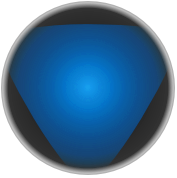
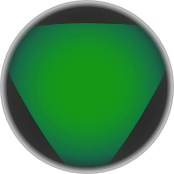
finish design

diff --git a/src/components/magic-ball/MagicBall.jsx b/src/components/magic-ball/MagicBall.jsx
@@ -1,77 +1,65 @@
 import React, { useState } from 'react';
-import ballImage from './images/ball.png';
-import ballHoleImage from './images/ball-hole.png';
 import './MagicBall.css';
 import answers from './answers.js';
 import LangButtons from './LangButtons.jsx';
+import MagicBallGlow from './MagicBall-glow.jsx';
+import MagicBallAnswer from './MagicBall-answer.jsx';
+import MagicBallBody from './MagicBall-body.jsx';
 
 
 
 const MagicBall = () => {
 
-    const [answer, setAnswer] = useState('');
     const [lang, setLang] = useState('ua');
+    const [answer, setAnswer] = useState(answers[0][lang]);
     const [shaking, setShaking] = useState(false);
 
     const handleShake = () => {
-        const randomIndex = Math.floor(Math.random() * answers.length);
+
+        let randomIndex = 0;
+
+        while(randomIndex === 0) {
+            randomIndex = Math.floor(Math.random() * answers.length);
+        }
+
         setShaking(true);
-        setTimeout(() => setShaking(false), 1000); 
+        setTimeout(() => setShaking(false), 1000);
         setAnswer(answers[randomIndex][lang]);
 
     };
 
+    const onLangChange = (e) => {
+        answers.find(answer => {
+            if (lang === 'en' && answer.en === e) {
+                    setAnswer(answer.ua);
+            }
+            else if (lang === 'ua' && answer.ua === e) {
+                setAnswer(answer.en);
+            }
+        })
+    };
+
+    const changeLang = (e) => {
+        setLang(e);
+        onLangChange(answer);
+    };
+
     return (
         <>
-            <LangButtons lang={lang} setLang={setLang} />
+            <LangButtons lang={lang} changeLang={changeLang} />
             <div
-                className={shaking ? 'shake' : ''}
+                className={`${shaking ? 'shake' : ''} `}
                 onClick={handleShake}
-                onMouseEnter={() => document.body.style.cursor = 'pointer'}
-                onMouseLeave={() => document.body.style.cursor = 'default'}
                 style={{
                     position: 'relative',
-                    cursor: 'pointer',
-                    marginTop: '300px'
+                    cursor: 'pointer',  
+                    marginTop: '400px'
                 }}
             >
-                <img
-                    src={ballImage} alt="Magic Ball"
-                    style={{
-                        position: 'absolute',
-                        top: '50%',
-                        left: '50%',
-                        transform: 'translate(-50%, -50%)'
-                    }}
-                />
-                <img
-                    src={ballHoleImage} alt="Magic Ball"
-                    style={{
-                        position: 'absolute',
-                        top: '50%',
-                        left: '50%',
-                        transform: 'translate(-50%, -50%)'
-                    }}
-                />
-                {<p 
-                style={{
-                    visibility: shaking ? 'hidden' : 'visible',
-                    fontSize: '16px',
-                    color: 'white',
-                    margin: '0',
-                    width: '120px',
-                    textAlign: 'center',
-                    position: 'absolute',
-                    top: '40%',
-                    left: '50%',
-                    transform: 'translate(-50%, -70%)'
-                }}
-                >
-                    {answer}
-                </p>}
+                <MagicBallBody />
+                <MagicBallAnswer answer={answer} shaking={shaking} />
             </div>
-
-
+            <MagicBallGlow />
         </>
     );
 }

diff --git a/src/components/magic-ball/answers.js b/src/components/magic-ball/answers.js
@@ -1,24 +1,26 @@
 const answers = [
-    { id: 1, en: "Yes", ua: "Так" },
-    { id: 2, en: "No", ua: "Ні" },
-    { id: 3, en: "Maybe", ua: "Можливо" },
-    { id: 4, en: "Ask again later", ua: "Подумай пізніше" },
-    { id: 5, en: "Definitely", ua: "Точно" },
-    { id: 6, en: "I don't think so", ua: "Не можу побачити" },
-    { id: 7, en: "Absolutely", ua: "Абсолютно" },
-    { id: 8, en: "Not sure", ua: "Не впевнений" },
-    { id: 9, en: "Try again", ua: "Спробуй знову" },
-    { id: 10, en: "Very likely", ua: "Дуже ймовірно" },
-    { id: 11, en: "Unlikely", ua: "Малоймовірно" },
-    { id: 12, en: "Ask someone else", ua: "Запитай когось іншого" },
-    { id: 13, en: "Certainly", ua: "Безсумнівно" },
-    { id: 14, en: "Doubtful", ua: "Сумнівно" },
-    { id: 15, en: "Yes, in due time", ua: "Так, в свій час" },
-    { id: 16, en: "Cannot predict now", ua: "Не можу передбачити зараз" },
-    { id: 17, en: "Focus and ask again", ua: "Зосередься та запитай знову" },
-    { id: 18, en: "Outlook good", ua: "Прогноз добрий" },
-    { id: 19, en: "Outlook not so good", ua: "Прогноз не дуже добрий" },
-    { id: 20, en: "Yes, but be cautious", ua: "Так, але будь обережним" }
+    { id: 1, en: "Shake me!", ua: "Трухани мене!" },
+    { id: 2, en: "Yes", ua: "Так" },
+    { id: 3, en: "No", ua: "Ні" },
+    { id: 4, en: "Maybe", ua: "Можливо" },
+    { id: 5, en: "Ask again later", ua: "Подумай пізніше" },
+    { id: 6, en: "Definitely", ua: "Точно" },
+    { id: 7, en: "I don't think so", ua: "Не можу побачити" },
+    { id: 8, en: "Absolutely", ua: "Абсолютно" },
+    { id: 9, en: "Not sure", ua: "Не впевнений" },
+    { id: 10, en: "Try again", ua: "Спробуй знову" },
+    { id: 11, en: "Very likely", ua: "Дуже ймовірно" },
+    { id: 12, en: "Unlikely", ua: "Малоймовірно" },
+    { id: 13, en: "Ask someone else", ua: "Запитай когось іншого" },
+    { id: 14, en: "Certainly", ua: "Безсумнівно" },
+    { id: 15, en: "Doubtful", ua: "Сумнівно" },
+    { id: 16, en: "Yes, in due time", ua: "Так, в свій час" },
+    { id: 17, en: "Cannot predict now", ua: "Не можу передбачити зараз" },
+    { id: 18, en: "Focus and ask again", ua: "Зосередься та запитай знову" },
+    { id: 19, en: "Outlook good", ua: "Прогноз добрий" },
+    { id: 20, en: "Outlook not so good", ua: "Прогноз не дуже добрий" },
+    { id: 21, en: "Yes, but be cautious", ua: "Так, але будь обережним" },
+    { id: 22, en: "Don't believe in \"magical\" balls", ua: "Не вірь \"магічним\" кулям" },
 ];
 
 export default answers;

diff --git a/src/components/magic-ball/MagicBall.css b/src/components/magic-ball/MagicBall.css
@@ -1,18 +1,51 @@
 @keyframes shake {
-    0% { transform: translate(1px, 1px) rotate(0deg); }
-    10% { transform: translate(-1px, -2px) rotate(-1deg); }
-    20% { transform: translate(-3px, 0px) rotate(1deg); }
-    30% { transform: translate(3px, 2px) rotate(0deg); }
-    40% { transform: translate(1px, -1px) rotate(1deg); }
-    50% { transform: translate(-1px, 2px) rotate(-1deg); }
-    60% { transform: translate(-3px, 1px) rotate(0deg); }
-    70% { transform: translate(3px, 1px) rotate(-1deg); }
-    80% { transform: translate(-1px, -1px) rotate(1deg); }
-    90% { transform: translate(1px, 2px) rotate(0deg); }
-    100% { transform: translate(1px, -2px) rotate(-1deg); }
-  }
+    0% { transform: translate(5px, 5px) rotate(0deg); }
+    10% { transform: translate(-5px, -10px) rotate(-3deg); }
+    20% { transform: translate(-10px, 0px) rotate(3deg); }
+    30% { transform: translate(10px, 10px) rotate(0deg); }
+    40% { transform: translate(5px, -5px) rotate(3deg); }
+    50% { transform: translate(-5px, 10px) rotate(-3deg); }
+    60% { transform: translate(-10px, 5px) rotate(0deg); }
+    70% { transform: translate(10px, 5px) rotate(-3deg); }
+    80% { transform: translate(-5px, -5px) rotate(3deg); }
+    90% { transform: translate(5px, 10px) rotate(0deg); }
+    100% { transform: translate(5px, -10px) rotate(-3deg); }
+}
   
-  .shake {
-    animation: shake 0.5s;
-    animation-iteration-count: infinite;
-  }
+.shake {
+  animation: shake 0.5s;
+  animation-iteration-count: infinite;
+}
+
+.glow {
+  -webkit-box-shadow: 0px 0px 111px 200px rgba(16,124,16,0.46);
+  -moz-box-shadow: 0px 0px 111px 200px rgba(16,124,16,0.46);
+  box-shadow: 0px 0px 111px 200px rgba(16,124,16,0.46);
+}
+
+body {background-color: black;}
+
+.lang-buttons {
+  background-color: rgba(30, 212, 39, 0.603);
+  border-radius: 6px;
+}
+
+.ballBodyPosition {
+  position: absolute;
+  top: 50%;
+  left: 50%;
+  transform: translate(-50%, -50%);
+  border-radius: 50%;
+}
+
+.answer {
+  font-size: 16px;
+  color: white;
+  margin: 0;
+  width: 120px;
+  text-align: center;
+  position: absolute;
+  top: 40%;
+  left: 50%;
+  transform: translate(-50%, -50%);
+}

diff --git a/src/components/magic-ball/LangButtons.jsx b/src/components/magic-ball/LangButtons.jsx
@@ -1,10 +1,21 @@
 import React from 'react';
+import './MagicBall.css';
 
-const LangButtons = ({ lang, setLang }) => {
+const LangButtons = ({ lang, changeLang }) => {
     return (
         <div style={{ textAlign: 'center' }}>
-            <button onClick={() => setLang('en')} disabled={lang === 'en'}>English</button>
-            <button onClick={() => setLang('ua')} disabled={lang === 'ua'}>Українська</button>
+            <button className='lang-buttons'
+                onClick={() => changeLang('en')}
+                disabled={lang === 'en'}
+            >
+                English
+            </button>
+            <button className='lang-buttons'
+                onClick={() => changeLang('ua')}
+                disabled={lang === 'ua'}
+            >
+                Українська
+            </button>
         </div>
     );
 };

diff --git a/src/components/magic-ball/MagicBall-body.jsx b/src/components/magic-ball/MagicBall-body.jsx
@@ -1,0 +1,21 @@
+import React from 'react';
+import ballImage from './images/ball.png';
+import ballHoleImage from './images/ball-hole.png';
+import './MagicBall.css';
+
+const MagicBallBody = () => {
+    return (
+        <>
+            <img
+                src={ballImage} alt="Magic Ball"
+                className="ballBodyPosition"
+            />
+            <img
+                src={ballHoleImage} alt="Magic Hole"
+                className="ballBodyPosition"
+            />
+        </>
+    );
+}
+
+export default MagicBallBody;

diff --git a/src/components/magic-ball/MagicBall-glow.jsx b/src/components/magic-ball/MagicBall-glow.jsx
@@ -1,0 +1,16 @@
+import React from 'react';
+
+const MagicBallGlow = () => {
+    return (
+        <div
+            className='glow ballBodyPosition'
+            style={{
+                position: 'relative',
+                width: '320px',
+                height: '320px',
+                zIndex: '-1'
+            }}></div>
+    );
+}
+
+export default MagicBallGlow;

diff --git a/src/components/magic-ball/MagicBall-answer.jsx b/src/components/magic-ball/MagicBall-answer.jsx
@@ -1,0 +1,12 @@
+import React from 'react';
+
+const MagicBallAnswer = ({ answer, shaking }) => {
+    return (
+        <p className='answer'
+            style={{ visibility: shaking ? 'hidden' : 'visible' }}>
+            {answer}
+        </p>
+    );
+}
+
+export default MagicBallAnswer;
